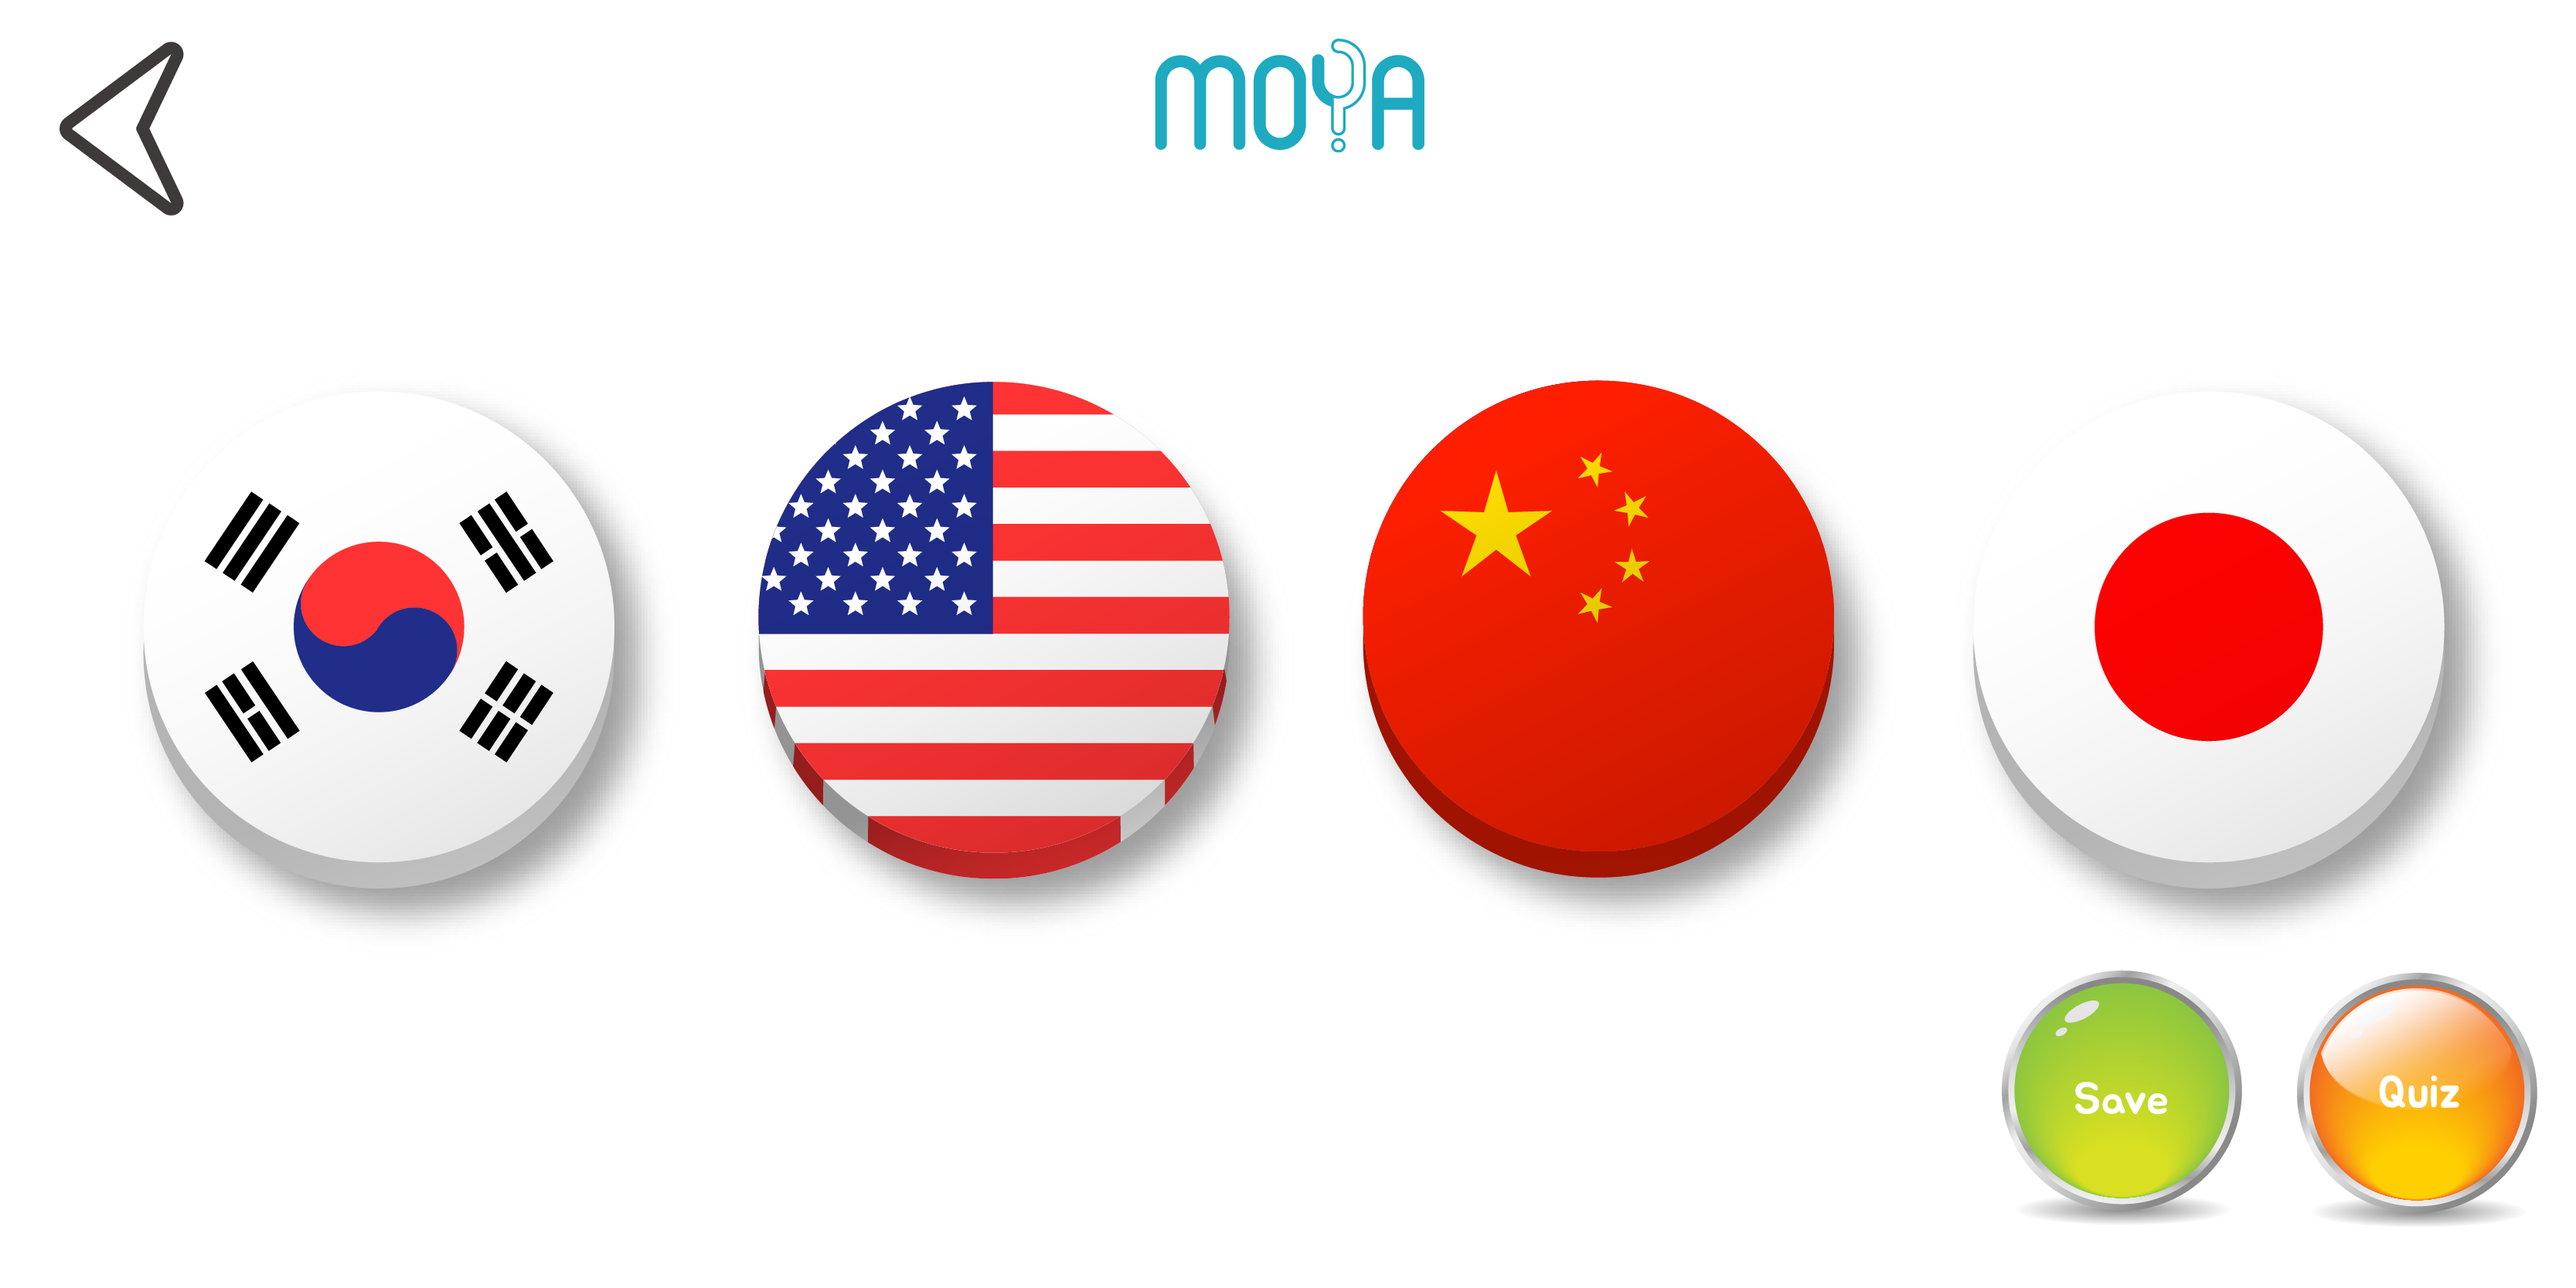
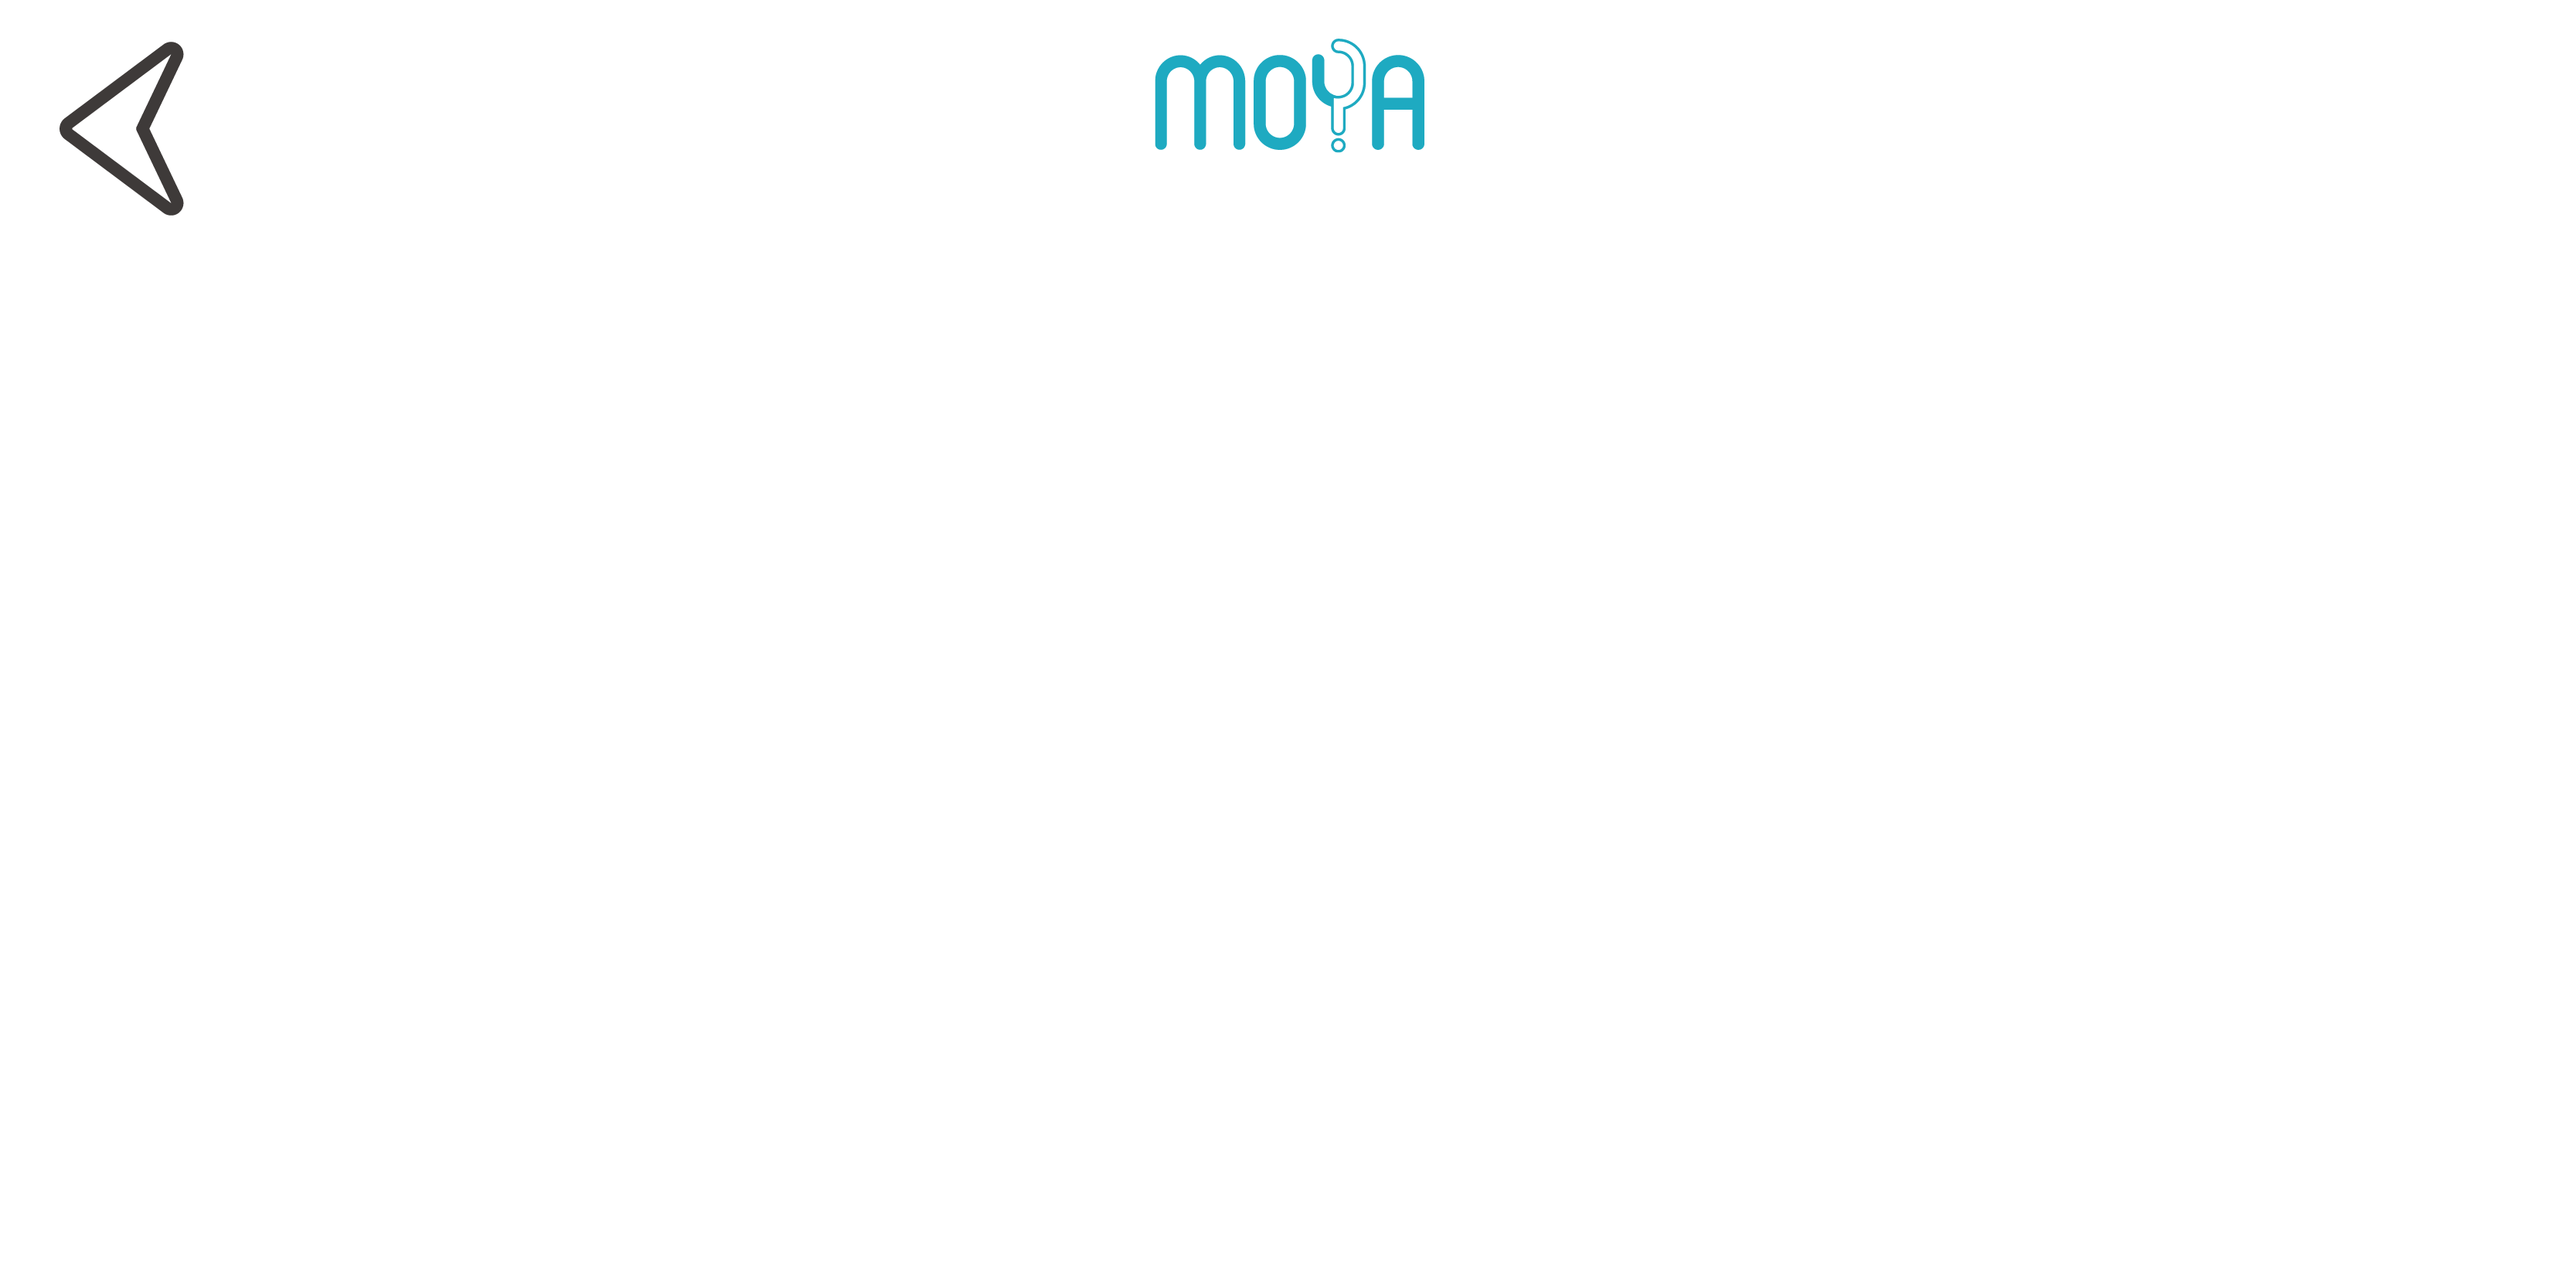
National flags are added

diff --git a/src/GUI/GUIpython2.py b/src/GUI/GUIpython2.py
@@ -120,26 +120,43 @@ class PageOne(tk.Frame):
         button21.grid(row=380, column=0)
         button22 = tk.Button(self, image=self.buttonPhoto23, compound='center',bg='white',
                             command=lambda: controller.show_frame(PageOne))
-        button22.grid(row=380, column=775)
+        button22.grid(row=380, column=600)
         button23 = tk.Button(self, image=self.buttonPhoto24, compound='center',bg='white',
                             command=lambda: controller.show_frame(PageTwo))
-        button23.grid(row=380, column=785)
+        button23.grid(row=380, column=610)
 
-#        button24 = ttk.Button(self, text="Quiz",
-#                            command=lambda: controller.show_frame(PageOne))
-#        button24.grid(row=200, column=100)
-#
-#        button25 = ttk.Button(self, text="Quiz",
-#                            command=lambda: controller.show_frame(PageOne))
-#        button25.grid(row=200, column=300)
-#
-#        button26 = ttk.Button(self, text="Quiz",
-#                            command=lambda: controller.show_frame(PageOne))
-#        button26.grid(row=200, column=500)
-#
-#        button27 = ttk.Button(self, text="Quiz",
-#                            command=lambda: controller.show_frame(PageOne))
-#        button27.grid(row=200, column=700)        
+
+
+        buttonImage111 = Image.open("KOREA.png").resize((140,140))
+        self.buttonPhoto111 = ImageTk.PhotoImage(buttonImage111)
+
+        buttonImage222 = Image.open("USA.png").resize((140,140))
+        self.buttonPhoto222 = ImageTk.PhotoImage(buttonImage222)
+
+        buttonImage333 = Image.open("CHINA.png").resize((140,140))
+        self.buttonPhoto333 = ImageTk.PhotoImage(buttonImage333)
+
+        buttonImage444 = Image.open("JAPAN.png").resize((140,140))
+        self.buttonPhoto444 = ImageTk.PhotoImage(buttonImage444)
+
+
+
+
+        button111 = tk.Button(self, image=self.buttonPhoto111, compound='center',bg='white',
+                            command=lambda: print("hello"))
+        button111.grid(row=250, column=180)
+
+        button222 = tk.Button(self, image=self.buttonPhoto222, compound='center',bg='white',
+                            command=lambda: print("hello"))
+        button222.grid(row=250, column=320)
+
+        button333 = tk.Button(self, image=self.buttonPhoto333, compound='center',bg='white',
+                            command=lambda: print("hello"))
+        button333.grid(row=250, column=460)
+
+        button444 = tk.Button(self, image=self.buttonPhoto444, compound='center',bg='white',
+                            command=lambda: print("hello"))
+        button444.grid(row=250, column=600)        
 
 
 class PageTwo(tk.Frame):
